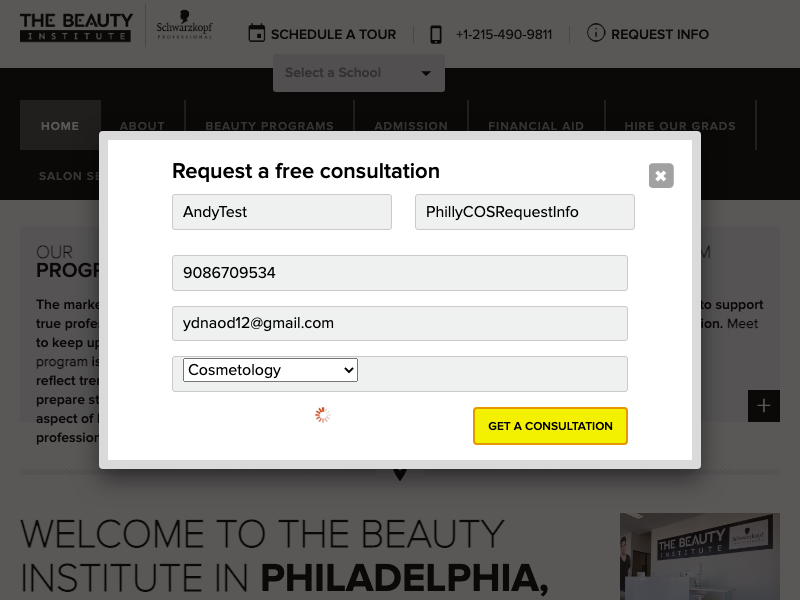
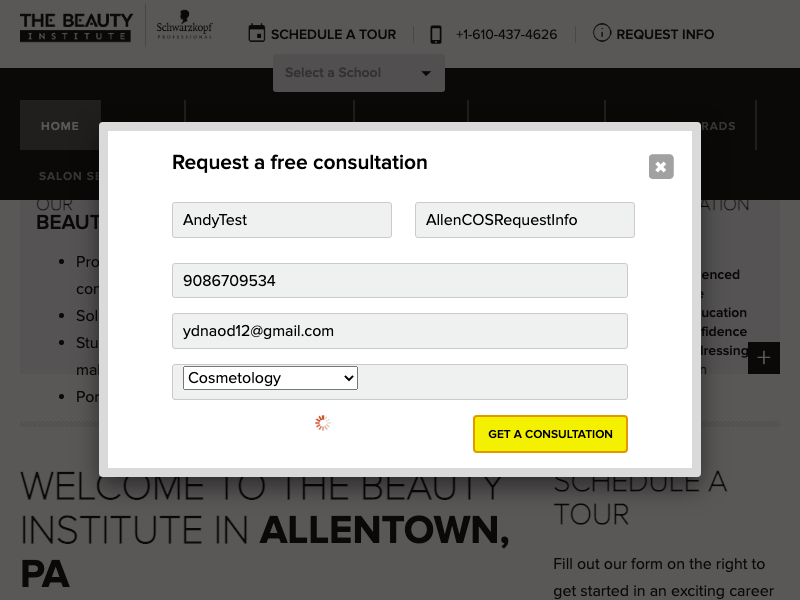
add allentown module for mobile

diff --git a/mobileAllentownLP.js b/mobileAllentownLP.js
@@ -1,0 +1,37 @@
+//const { response } = require('express');
+
+const puppeteer = require('puppeteer');
+
+//http://ambler.thebeautyinstituteskp.edu/
+
+const testForms = async () => {
+  const browser = await puppeteer.launch();
+  const page = await browser.newPage();
+  //await page.goto('http://m.thebeautyinstituteskp.edu/campus/ambler-beauty-schools?lead_src=google-mobile');
+  //await page.goto('http://m.thebeautyinstituteskp.edu/campus/ambler-beauty-schools/cosmetology?lead_src=facebook-mobile');
+  await page.goto('http://m.thebeautyinstituteskp.edu/campus/allentown-beauty-schools/esthetics?lead_src=google-mobile');
+  await page.type('#ambler_firstname', 'AndyTestGoogle'); 
+  await page.type('#ambler_lastname', 'AllentownSkinMOBStartCareerNow'); 
+  await page.type('#ambler_phone', '9086709534'); 
+  await page.type('#ambler_email', 'ydnaod12@gmail.com'); 
+
+  await page.click('#bt_submit');
+  console.log('lets gooo');
+  await page.screenshot({path: 'allentown.png'});
+  await page.waitForTimeout(10000);
+
+  await page.goto('http://m.thebeautyinstituteskp.edu/campus/allentown-beauty-schools/cosmetology?lead_src=google-mobile');
+  await page.type('#ambler_firstname', 'AndyTestGoogle'); 
+  await page.type('#ambler_lastname', 'AllentownCosMOBStartCareerNow'); 
+  await page.type('#ambler_phone', '9086709534'); 
+  await page.type('#ambler_email', 'ydnaod12@gmail.com'); 
+
+  await page.click('#bt_submit');
+  console.log('lets gooo');
+  await page.screenshot({path: 'allentown.png'});
+  await page.waitForTimeout(10000);
+
+  await browser.close();
+};
+
+module.exports = {testForms};

diff --git a/AutomatedForms.js b/AutomatedForms.js
@@ -2,6 +2,7 @@ const ambler = require('./amblerDesk');
 const stroudsburg = require('./StroudsburgDesk');
 const philly = require('./PhillyDesk');
 const allentown = require('./AllentownDesk');
+const allentownMobile = require('./mobileAllentownLP');
 const mobileAmblerLP1 = require('./mobileAmblerLP1');
 const mobileAmblerLP2 = require('./mobileAmblerLP2');
 
@@ -22,10 +23,11 @@ puppeteer.use(
   })
 );
 */
-mobileAmblerLP2.testForms();
+//mobileAmblerLP2.testForms();
 //mobileAmblerLP1.testForms();
 //ambler.testForms();
 //philly.testForms();
-//allentown.testForms();
+allentown.testForms();
+allentownMobile.testForms();
 //stroudsburg.testForms();
 //http://ambler.thebeautyinstituteskp.edu/
